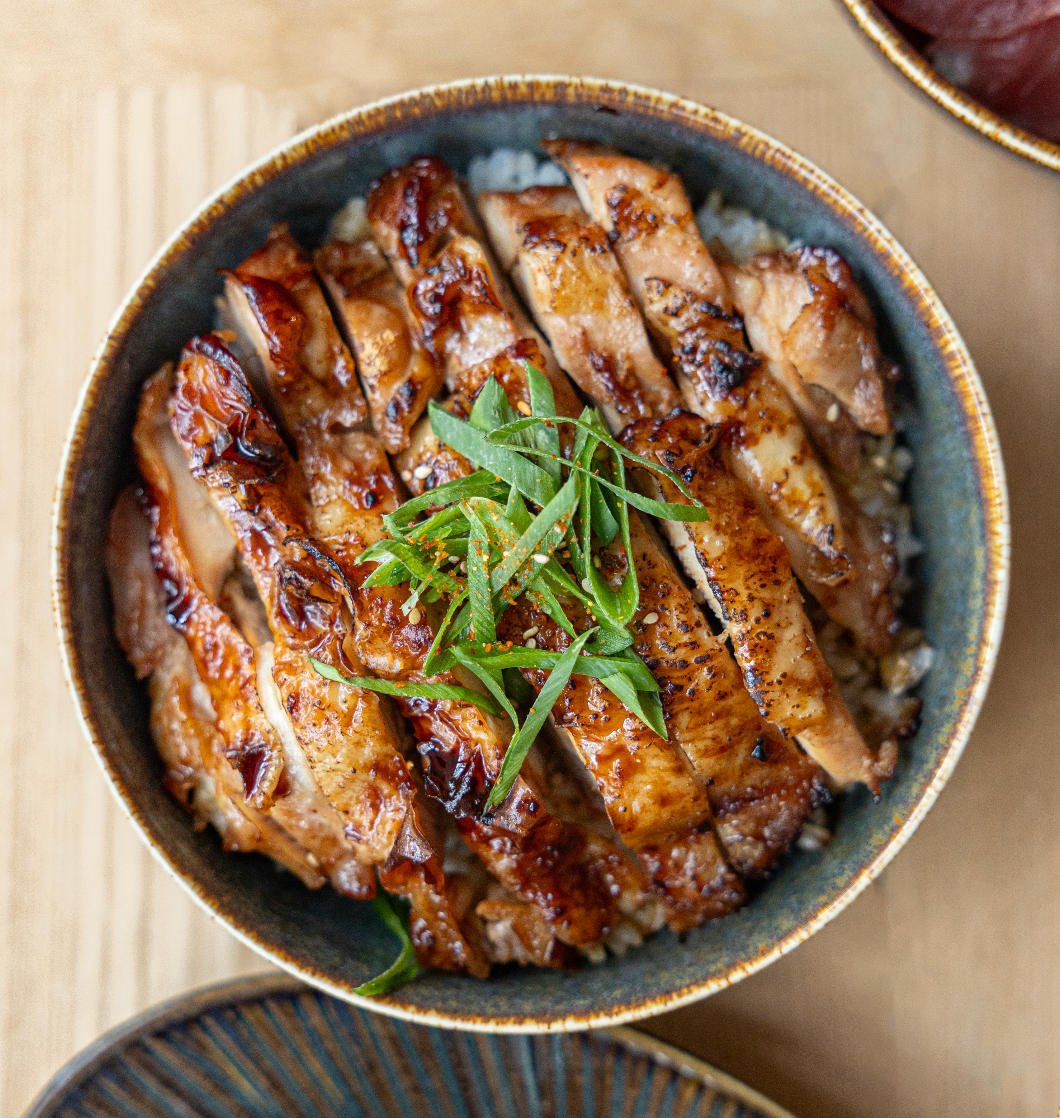
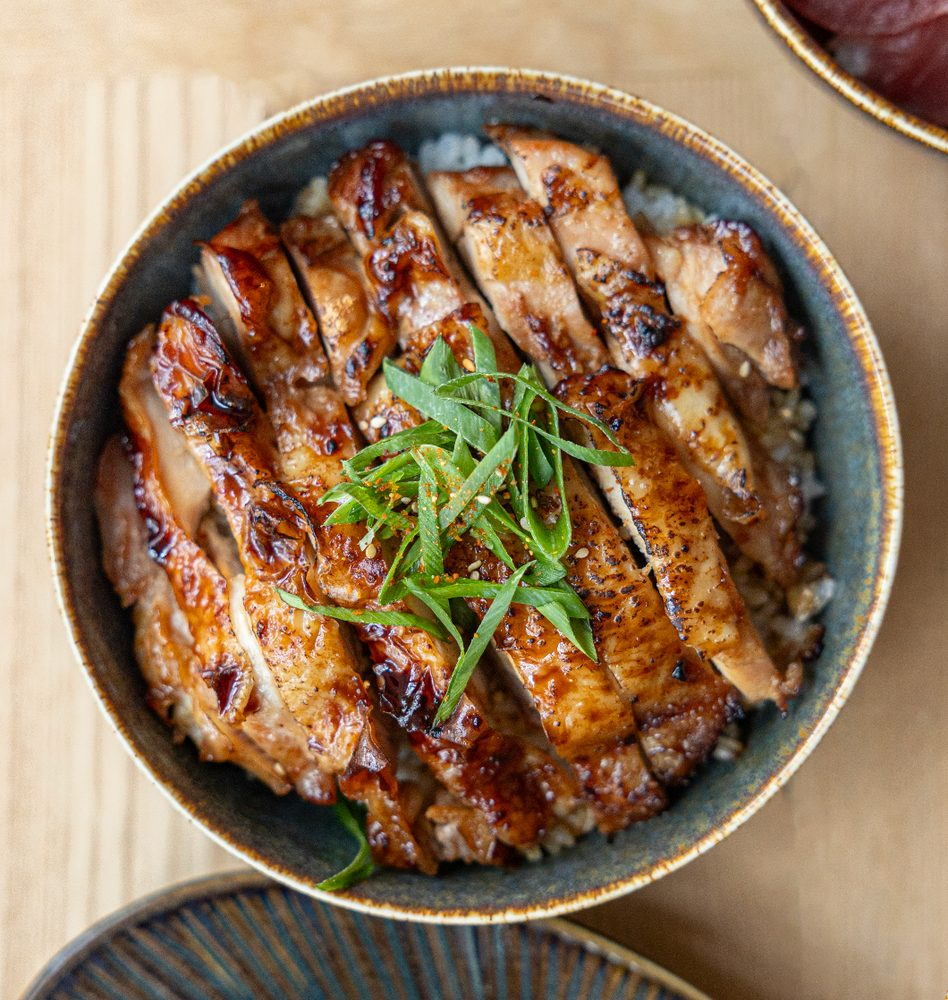
Correccion: Captura real SSR, hash avance 1 e imagenes optimizadas - OROZ NOVELLA KAREN JIMENA

diff --git a/README.md b/README.md
@@ -12,8 +12,8 @@
 
 | Avance | Hash del commit entregado | Fecha |
 |---|---|---|
-| 1 | 97966e8 | 11/10/2026 |
-| 2 | (hash del avance 2) | 18/10/2026 |
+| 1 | c7231bf | 11/10/2026 |
+| 2 | e2edadb | 18/10/2026 |
 | 3 | (hash del avance 3) | 25/10/2026 |
 | 4 | (se escribe en el reporte PDF) | 01/11/2026 |
 
